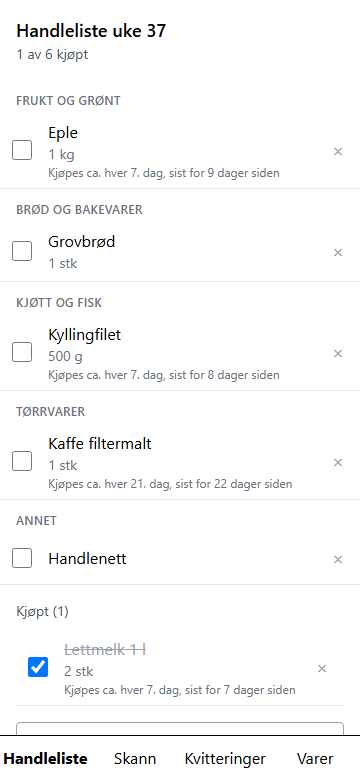
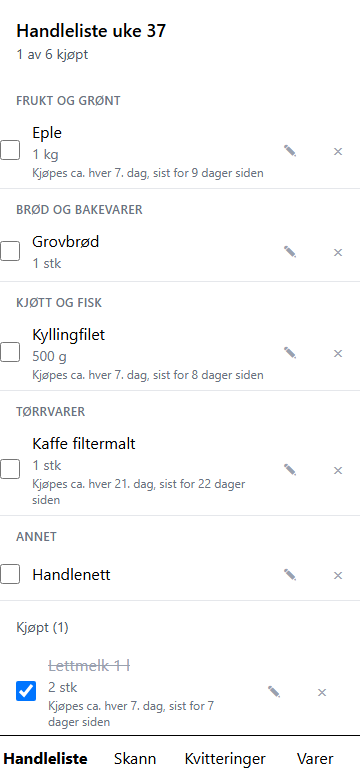
fix: restore tap-to-toggle on the row, edit from a dedicated pencil button (T32 review F1)
The plan had the item's text open inline editing, replacing the
tap-to-toggle behaviour T18 F1 established. On reflection that was
the wrong call for the store: checking off is done many times per
trip, one-handed, and deserves the whole row as its target, while
editing is rare.

The row (checkbox and text) is back to toggling checked. A new 44x44
px pencil button between the text and the "x", aria-label "Rediger
{name}", opens inline editing instead. Restored the T18 F1
tap-on-name-toggles test and pointed the open-edit test at the pencil
button; retook the 360px grouped-list screenshot and added two more
showing the row-tap toggling and the pencil opening the editor.
Includes the foreman's matching correction to T32-plan.md and the
architecture "/" row.

Claude-Session: https://claude.ai/code/session_01LbcodsQxsNDR6cS1v9zKWj

diff --git a/test/client/ShoppingListPage.test.tsx b/test/client/ShoppingListPage.test.tsx
@@ -440,12 +440,22 @@ describe('ShoppingListPage', () => {
       expect(toggleMutate).toHaveBeenCalledWith({ id: 1, checked: true }, expect.anything());
     });
 
-    it('opens inline editing when the name is tapped, not the checkbox toggle (T32; replaces T18 F1)', async () => {
+    it('toggles when the name is tapped, not only the checkbox itself (T18 F1)', async () => {
       mockList(list({ items: [item({ id: 1, name: 'Lettmelk 1 l', checked: false })] }));
       renderPage();
       const user = userEvent.setup();
 
       await user.click(screen.getByText('Lettmelk 1 l'));
+
+      expect(toggleMutate).toHaveBeenCalledWith({ id: 1, checked: true }, expect.anything());
+    });
+
+    it('opens inline editing from the pencil button, not by tapping the name (T32 review F1)', async () => {
+      mockList(list({ items: [item({ id: 1, name: 'Lettmelk 1 l', checked: false })] }));
+      renderPage();
+      const user = userEvent.setup();
+
+      await user.click(screen.getByLabelText('Rediger Lettmelk 1 l'));
 
       expect(toggleMutate).not.toHaveBeenCalled();
       expect(screen.getByLabelText('Navn')).toHaveValue('Lettmelk 1 l');
@@ -493,7 +503,7 @@ describe('ShoppingListPage', () => {
         renderPage();
         const user = userEvent.setup();
 
-        await user.click(screen.getByText('Lettmelk 1 l'));
+        await user.click(screen.getByLabelText('Rediger Lettmelk 1 l'));
         await user.clear(screen.getByLabelText('Navn'));
         await user.type(screen.getByLabelText('Navn'), 'Lettmelk 1,5 l');
         await user.click(screen.getByRole('button', { name: 'Lagre' }));
@@ -509,7 +519,7 @@ describe('ShoppingListPage', () => {
         renderPage();
         const user = userEvent.setup();
 
-        await user.click(screen.getByText('Lettmelk 1 l'));
+        await user.click(screen.getByLabelText('Rediger Lettmelk 1 l'));
         await user.clear(screen.getByLabelText('Navn'));
         await user.click(screen.getByRole('button', { name: 'Lagre' }));
 
@@ -522,7 +532,7 @@ describe('ShoppingListPage', () => {
         renderPage();
         const user = userEvent.setup();
 
-        await user.click(screen.getByText('Lettmelk 1 l'));
+        await user.click(screen.getByLabelText('Rediger Lettmelk 1 l'));
         await user.clear(screen.getByLabelText('Antall'));
         await user.click(screen.getByRole('button', { name: 'Lagre' }));
 
@@ -537,7 +547,7 @@ describe('ShoppingListPage', () => {
         renderPage();
         const user = userEvent.setup();
 
-        await user.click(screen.getByText('Lettmelk 1 l'));
+        await user.click(screen.getByLabelText('Rediger Lettmelk 1 l'));
         await user.clear(screen.getByLabelText('Navn'));
         await user.type(screen.getByLabelText('Navn'), 'Noe annet');
         await user.click(screen.getByRole('button', { name: 'Avbryt' }));

diff --git a/src/client/components/ShoppingListItemRow.tsx b/src/client/components/ShoppingListItemRow.tsx
@@ -12,8 +12,9 @@ type ShoppingListItemRowProps = {
 
 /** Removal itself is deferred by `OpenListView` (T31): tapping the `×` here only tells the parent,
  * which hides the row, offers `Angre`, and sends the delete once the undo window passes.
- * Tapping the item's text opens inline editing of its name and quantity (T32), replacing the
- * earlier tap-to-toggle behaviour on the text; the checkbox keeps its own 44 px tap target.
+ * The whole row (checkbox and text) toggles checked, as it did before T32 (T18 F1): checking off
+ * is done many times per trip, one-handed, and deserves the row as its target. A dedicated pencil
+ * button opens inline editing of the name and quantity instead (T32 review F1) — editing is rare.
  */
 export default function ShoppingListItemRow({
   item,
@@ -120,21 +121,31 @@ export default function ShoppingListItemRow({
 
   return (
     <li className="flex items-center gap-1 border-b border-gray-200 py-1">
-      <label className="flex h-11 w-11 flex-shrink-0 items-center justify-center">
+      <label className="flex min-h-11 flex-1 items-center gap-3 py-1">
         <input
           type="checkbox"
           checked={item.checked}
           onChange={onToggle}
           aria-label={`Merk ${item.name} som kjøpt`}
-          className="h-5 w-5"
+          className="h-5 w-5 flex-shrink-0"
         />
+        <div className="min-w-0 flex-1">
+          <p className={`truncate ${item.checked ? 'text-gray-400 line-through' : ''}`}>
+            {item.name}
+          </p>
+          {item.quantityText !== null && (
+            <p className="text-sm text-gray-500">{item.quantityText}</p>
+          )}
+          {item.reason !== null && <p className="text-xs text-gray-500">{item.reason}</p>}
+        </div>
       </label>
-      <button type="button" onClick={openEdit} className="min-h-11 min-w-0 flex-1 py-1 text-left">
-        <p className={`truncate ${item.checked ? 'text-gray-400 line-through' : ''}`}>
-          {item.name}
-        </p>
-        {item.quantityText !== null && <p className="text-sm text-gray-500">{item.quantityText}</p>}
-        {item.reason !== null && <p className="text-xs text-gray-500">{item.reason}</p>}
+      <button
+        type="button"
+        onClick={openEdit}
+        aria-label={`Rediger ${item.name}`}
+        className="flex h-11 w-11 flex-shrink-0 items-center justify-center text-gray-400"
+      >
+        ✎
       </button>
       <button
         type="button"

diff --git a/docs/architecture.md b/docs/architecture.md
@@ -584,7 +584,7 @@ type ShoppingList = {
 | Route | Page | Content |
 | --- | --- | --- |
 | `/login` | LoginPage | Password field. |
-| `/` | ShoppingListPage | Header with the ISO week and progress; unchecked items grouped by category in store-walk order; tap an item's text to edit name and quantity in place; check-off, a visible `Kjøpt (n)` section, add item, remove item (a quiet `×` icon) with a 6 s `Angre` (the delete is sent when the toast expires, so an item removed just before the app is closed stays), `Ferdig handlet` with `Angre` that reopens, `Slett listen` behind a confirmation; when there is no open list, a preview of suggestions, `Lag handleliste`, and `Gjenåpne listen` when the latest list was completed today. Desktop caps at `max-w-2xl` centred. T31, T32. |
+| `/` | ShoppingListPage | Header with the ISO week and progress; unchecked items grouped by category in store-walk order; the row (checkbox and text) toggles checked, and a pencil button on each item edits name and quantity in place; check-off, a visible `Kjøpt (n)` section, add item, remove item (a quiet `×` icon) with a 6 s `Angre` (the delete is sent when the toast expires, so an item removed just before the app is closed stays), `Ferdig handlet` with `Angre` that reopens, `Slett listen` behind a confirmation; when there is no open list, a preview of suggestions, `Lag handleliste`, and `Gjenåpne listen` when the latest list was completed today. Desktop caps at `max-w-2xl` centred. T31, T32. |
 | `/scan` | ScanPage | "Ta bilde" (`<input type="file" accept="image/*" capture="environment">`, one photo) and "Velg fra bilder" (same input without `capture`, `multiple`). Every selected file is downscaled and uploaded at once, one after the other in selection order, in a list with per-file state: "Laster opp … 45 %", "Lastet opp", "Allerede skannet" with a link to the existing receipt, or "Feilet: {message}". Below the list, "Skann (1)" or "Skann alle (n)" for every receipt with status `uploaded`; it calls scan for each and navigates to `/receipts/:id` when n is 1, else to `/receipts`. |
 | `/receipts` | ReceiptsPage | List with store, date as `4. sep. · 3 dager siden`, total, status badge and warning count; tap opens the receipt. "Skann" on each `uploaded` row and "Skann alle (n)" above the list. Between the "Skann alle" button and the list, a collapsed `<details>` "Statistikk og historikk" (Phase 2, T23): opened, it fetches `GET /api/stats/summary` and `GET /api/shopping-lists` and shows monthly totals as a plain bar list, "Mest kjøpt, alle kvitteringer" (all-time top 10 products), and the shopping list history (week, item count, status); closed, neither request fires, so the everyday visit costs nothing extra. |
 | `/receipts/:id` | ReceiptPage | While `uploaded`: image thumbnail, "Skann" and "Slett kvittering". While `pending`/`processing`: image thumbnail and `I kø…`/`Leser kvittering…` with the seconds since `updatedAt` (not since the component mounted, T30), ticking, with polling. When `failed`: error, "Prøv igjen" (calls scan) and "Slett kvittering" (T30). When `done`: editable header (store, date, total), warning chips (the `POSSIBLE_DUPLICATE` chip links to the other receipt), the receipt image in a sticky, scrollable panel: toggled with `Vis bilde` on a phone, always beside the lines on desktop, tap opens the full image (T35), lines with product picker per item line; each line's amount and kind can be corrected and a line deleted, warnings recompute; "Ferdig" that sets `reviewed`. `Slett kvittering` (`uploaded`/`failed`/`done`) is one shared component: `window.confirm`, toast "Kvitteringen er slettet", navigate to `/receipts`. |

diff --git a/docs/reviews/T32-plan.md b/docs/reviews/T32-plan.md
@@ -22,7 +22,8 @@ The `Kjøpt (n)` section from T31 stays flat at the bottom.
 - Header at the top of the open list: `Handleliste uke 37` (ISO week of `weekStart` through `src/shared/dates.ts`) and `3 av 18 kjøpt`; the same header, without progress, on the preview: `Forslag til uke 37`.
 - Unchecked items grouped by `category ?? 'Annet'` in `SHOPPING_CATEGORY_ORDER`, alphabetical within a group by `localeCompare(…, 'nb')`; a group heading is small grey uppercase text; empty groups are not rendered.
   The `position` column is kept and untouched; the UI no longer orders by it.
-- Tapping an item's text opens inline editing: `Navn` (text) and `Antall` (text, e.g. `2 stk`, `1 kg`, may be empty), `Lagre` and `Avbryt`, 44 px each.
+- A 44×44 px pencil icon button on each row (`aria-label="Rediger {name}"`, between the text and the `×`) opens inline editing: `Navn` (text) and `Antall` (text, e.g. `2 stk`, `1 kg`, may be empty), `Lagre` and `Avbryt`, 44 px each.
+  The row's text stays part of the checkbox label, so tapping the row checks the item off as before (T18 F1); corrected during review, the first version of this line opened the editor from the text.
   `Lagre` sends only the changed fields through `PATCH /api/shopping-list-items/:id`; an empty name shows `Navnet kan ikke være tomt` inline and sends nothing; success shows `Varen er oppdatert`.
   Editing does not change `checked`, `productId` or `category`.
 - `Fjern` becomes a 44×44 px icon button (an ×) with `aria-label="Fjern {name}"`, grey, right-aligned; the T31 undo behaviour is unchanged.
